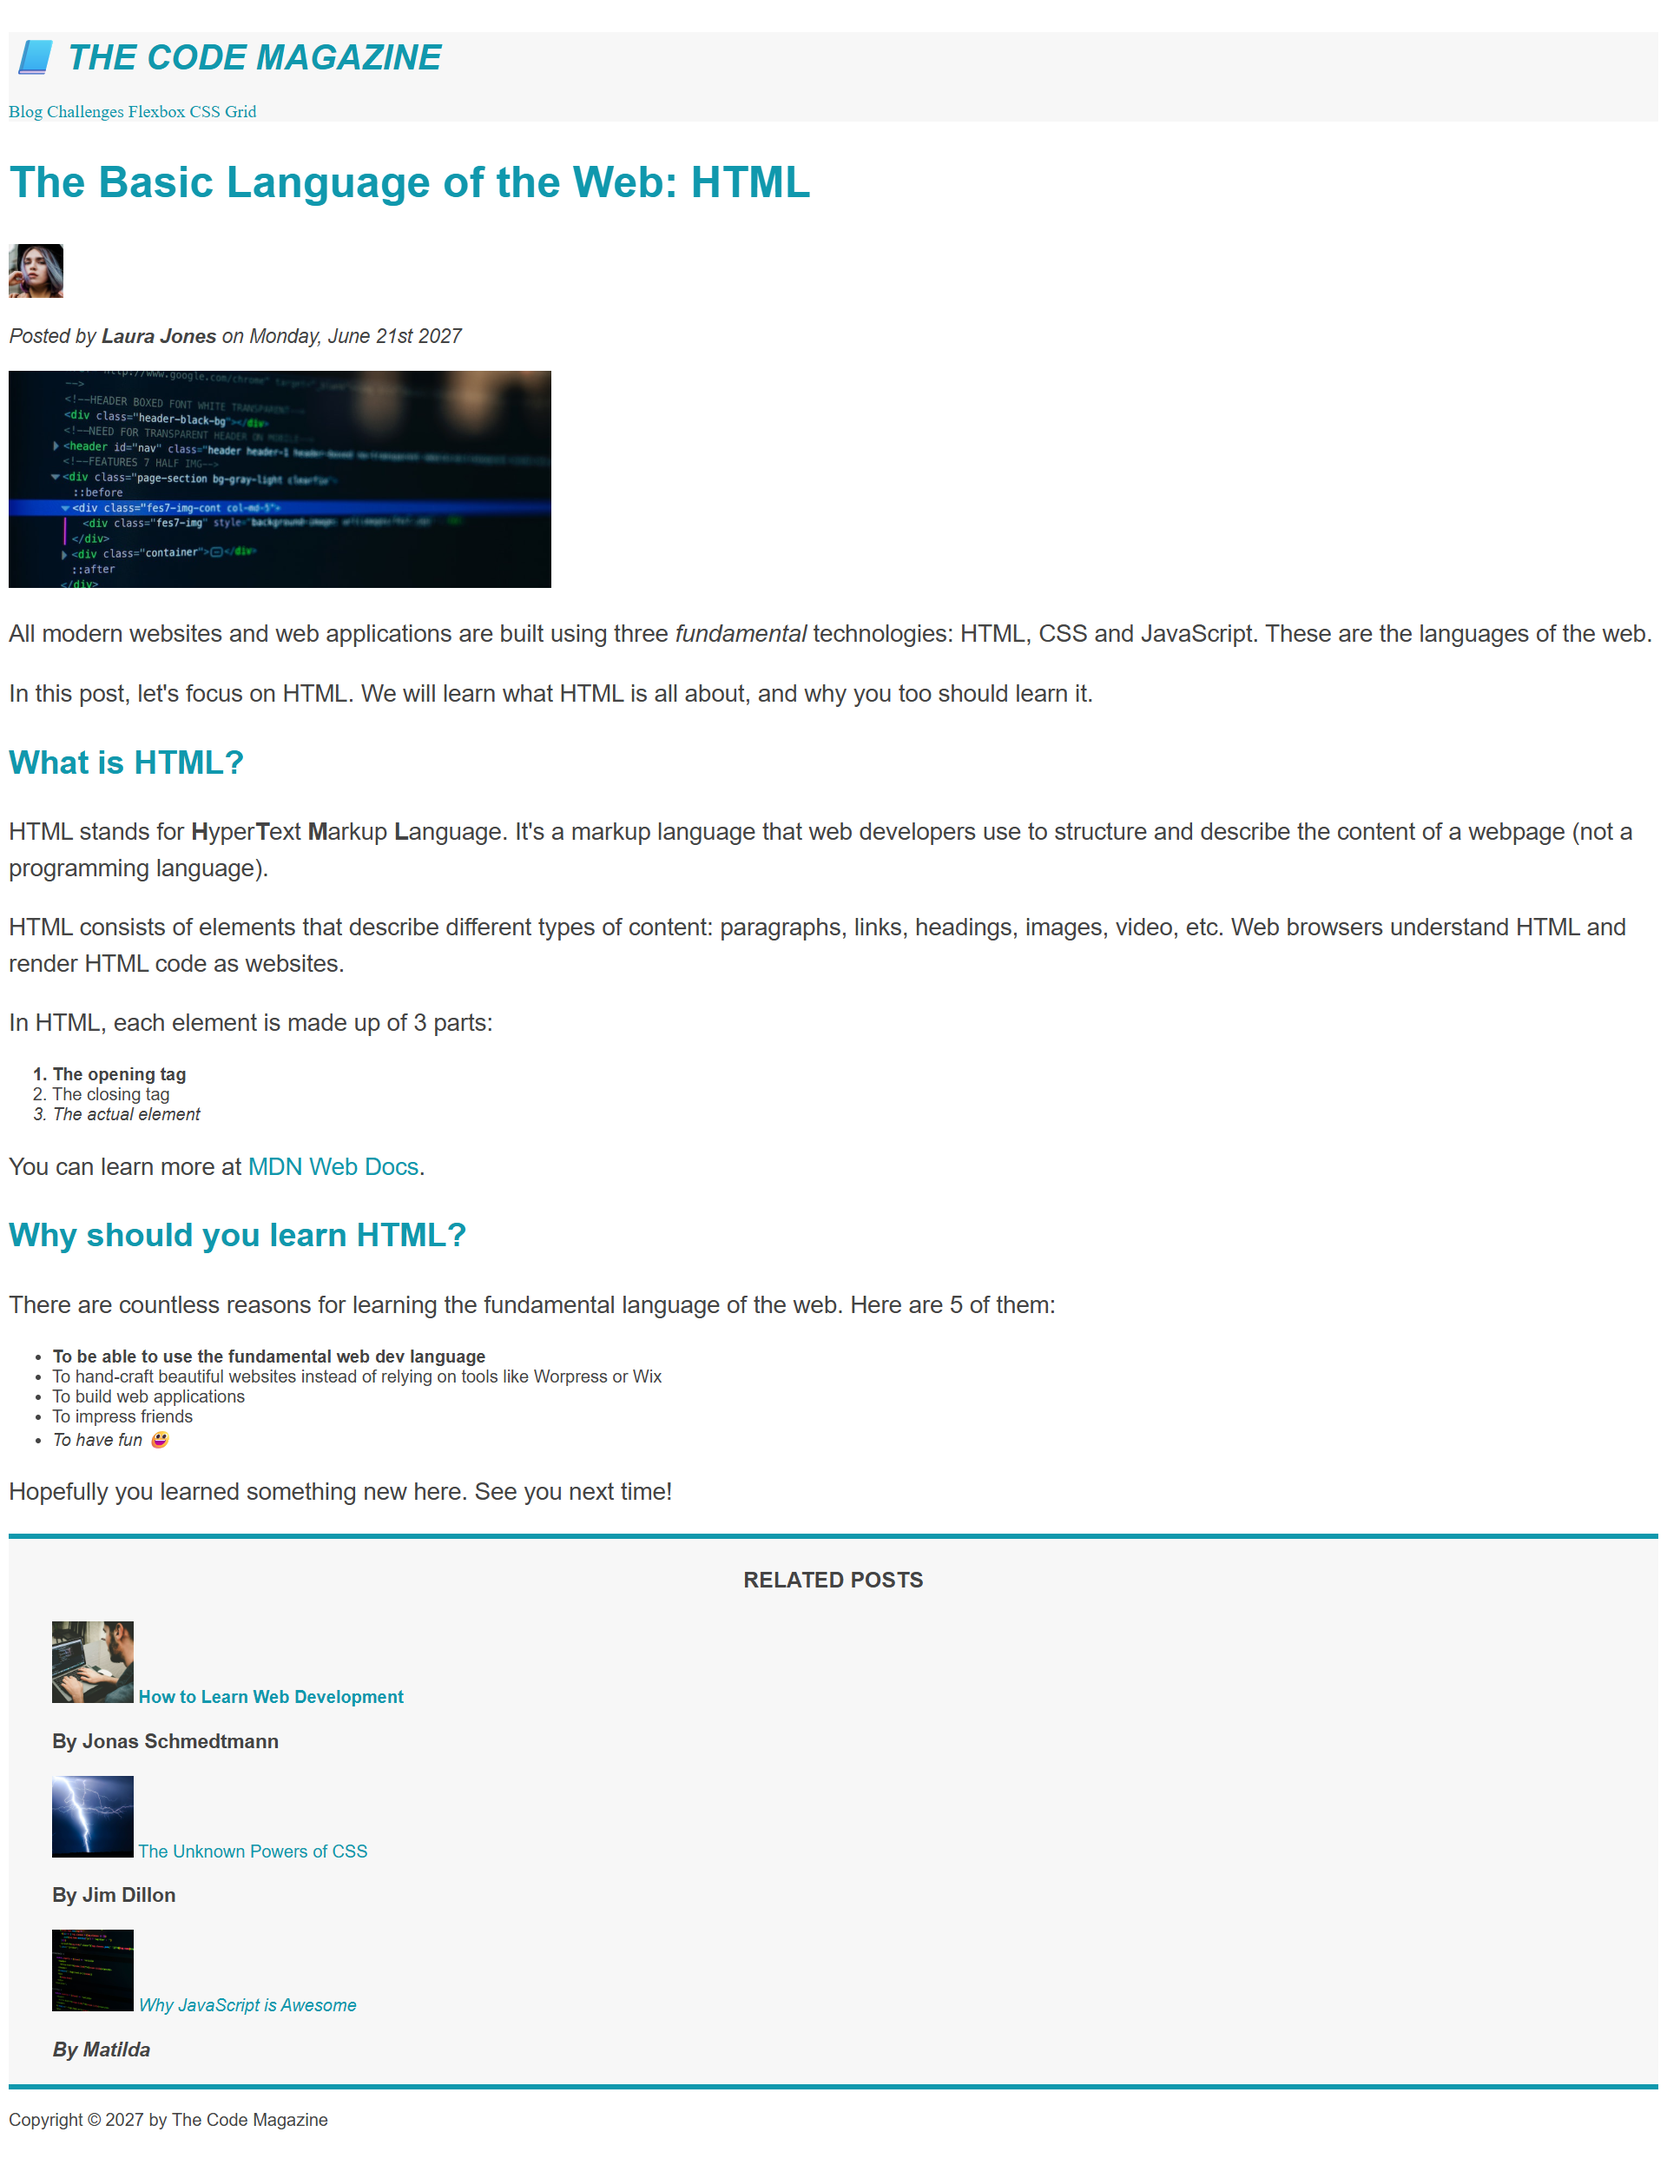
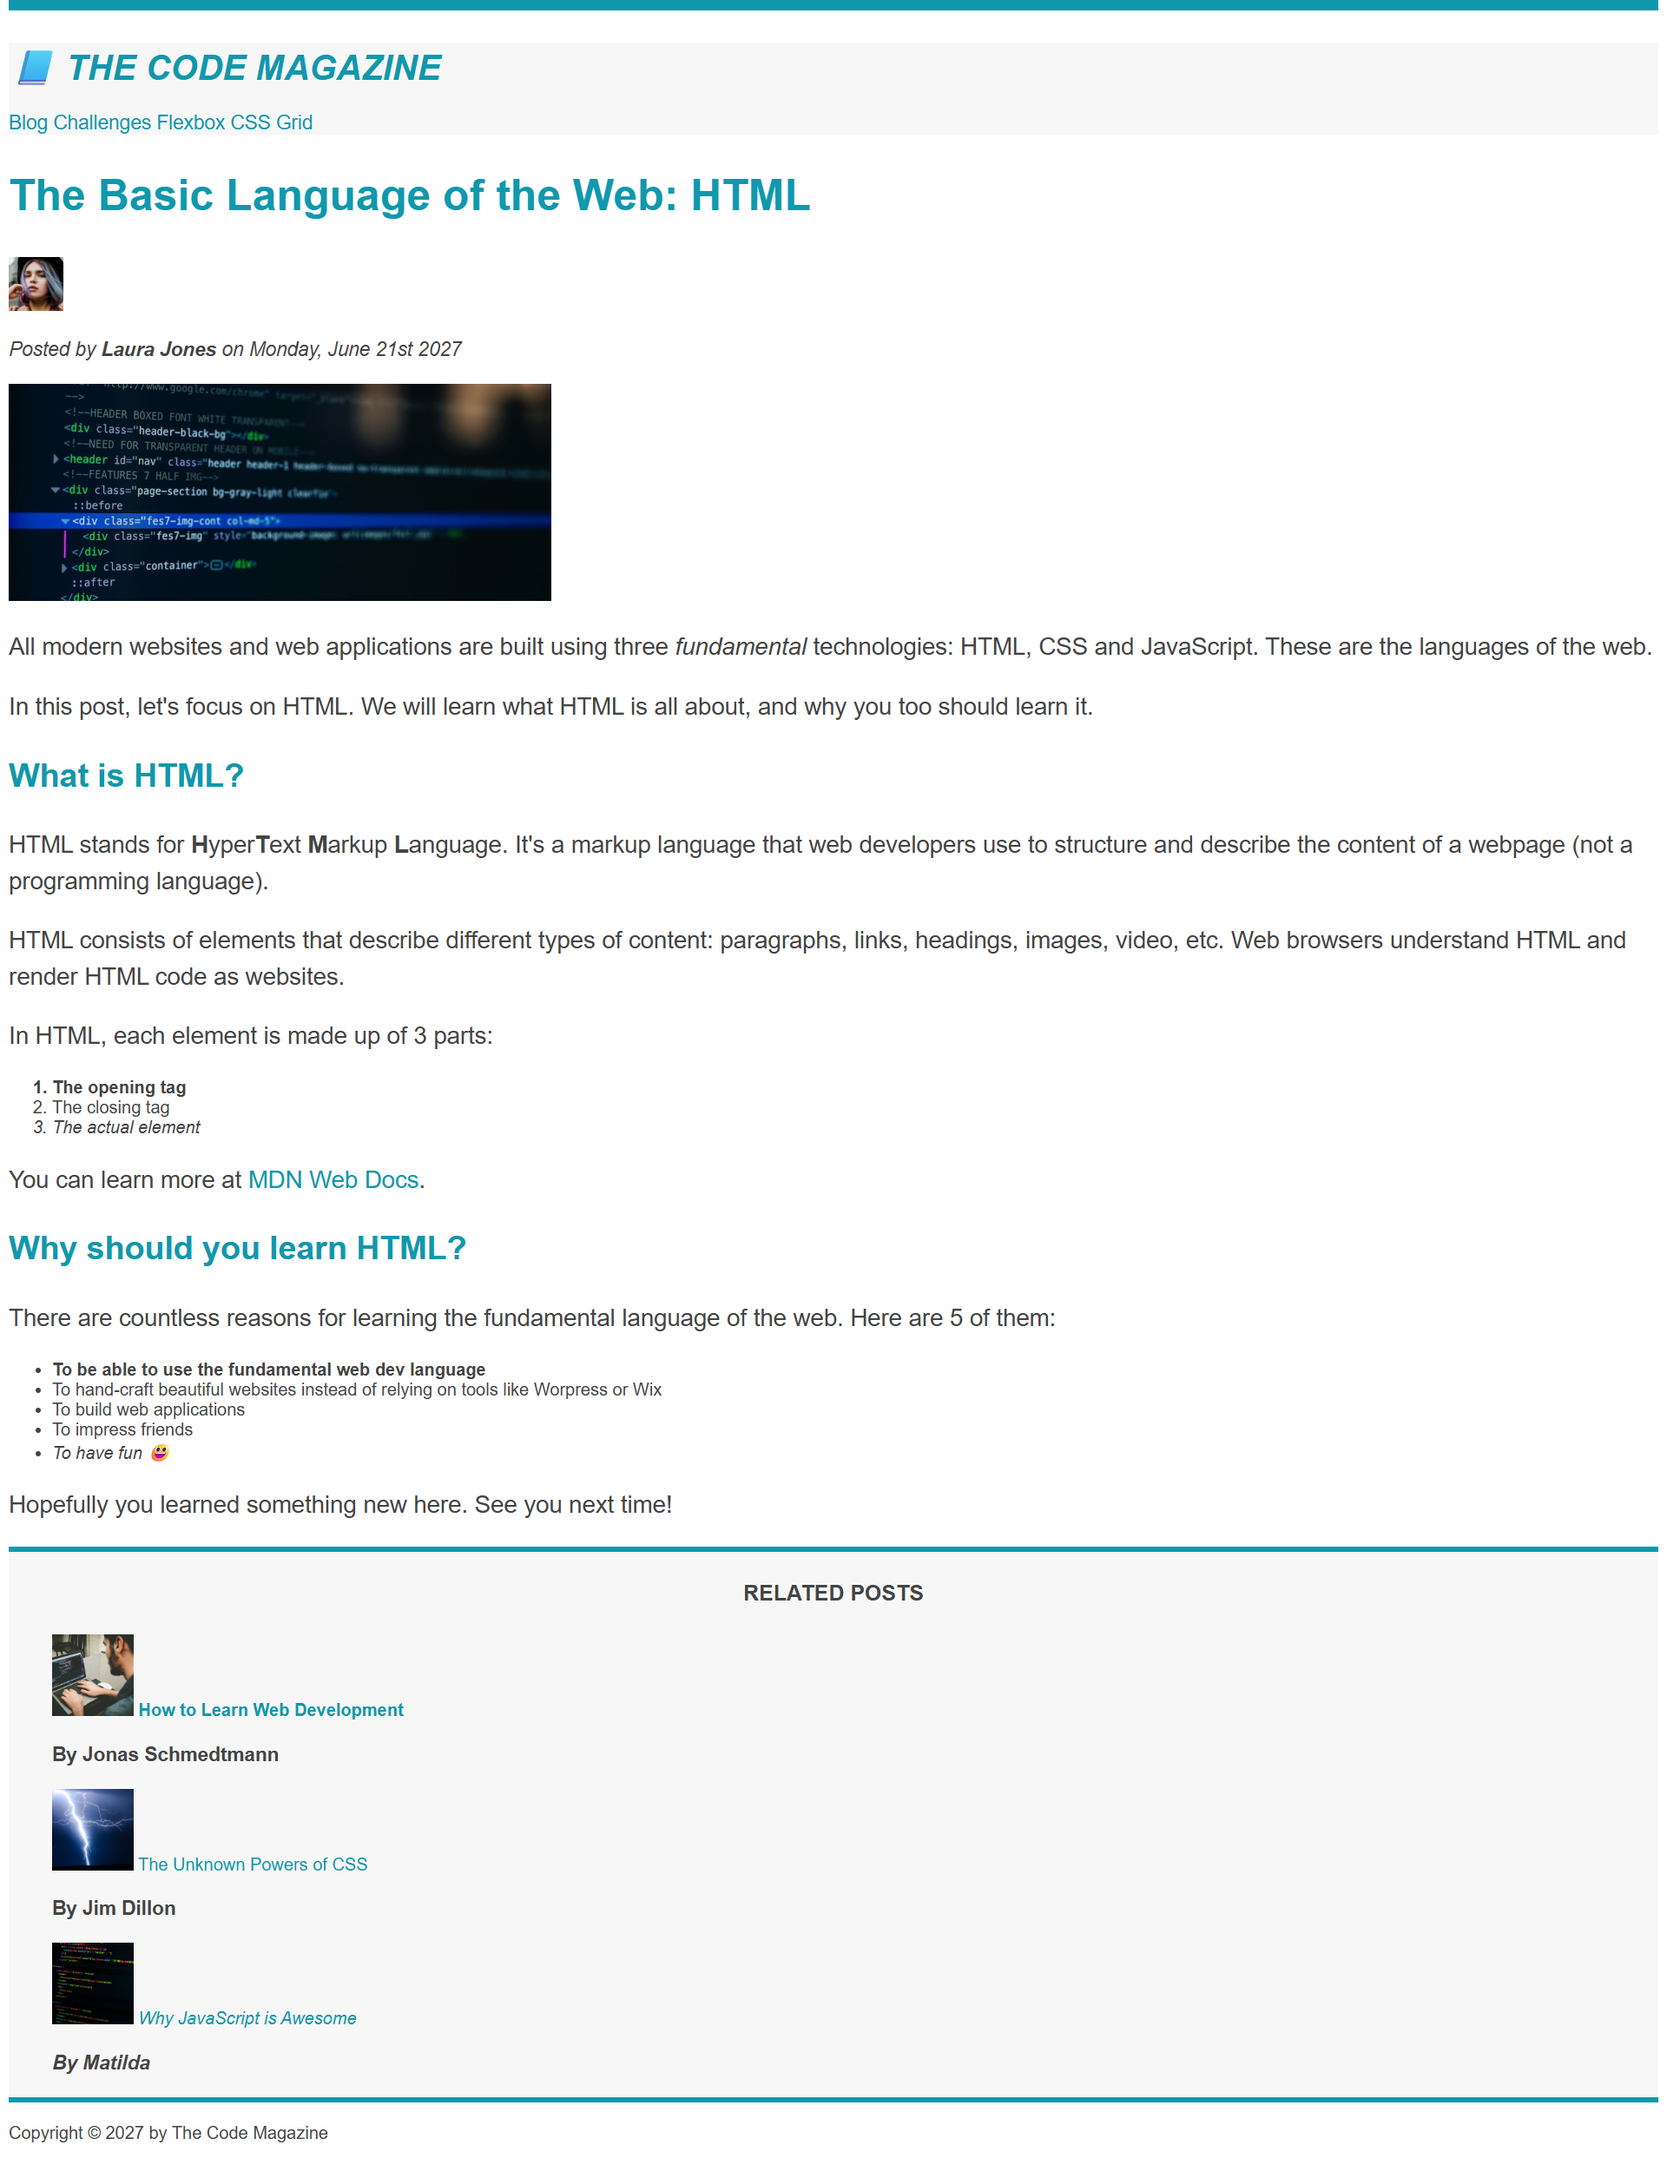
docs: update root README with CSS challenge, inheritance, and universal selector

diff --git a/product-page/style.css b/product-page/style.css
@@ -4,7 +4,59 @@
     box-sizing: border-box;
 } */
 
-h2{
-    color: blue;
-    font
+body {
+  border: 4px solid black;
+  font-family: sans-serif;
+}
+
+h2 {
+  text-align: center;
+  background-color: whitesmoke;
+  text-transform: uppercase;
+}
+
+.price {
+  font-size: 22px;
+}
+
+.shipping {
+  text-transform: uppercase;
+  font-size: 12px;
+  font-weight: bold;
+  color: #777;
+}
+
+a:link,
+a:visited {
+  color: black;
+}
+
+a:hover,
+a:active {
+  text-decoration: none;
+}
+
+h3 {
+  text-transform: uppercase;
+}
+
+ul li {
+  color: #444;
+  list-style-type: square;
+  line-height: 1.5;
+}
+
+.add-cart {
+  font-size: 14px;
+  text-transform: uppercase;
+  background-color: black;
+  color: white;
+  border: none;
+  cursor: pointer;
+}
+
+.add-cart:hover {
+  background-color: white;
+  color: black;
+  font-size: 14px;
 }

diff --git a/product-page/index.html b/product-page/index.html
@@ -4,6 +4,7 @@
     <meta charset="UTF-8" />
     <meta name="viewport" content="width=device-width, initial-scale=1.0" />
     <title><title>Converse Chuck Taylor All Star</title></title>
+    <link rel="stylesheet" href="style.css">
   </head>
   <body>
     <article>
@@ -16,9 +17,9 @@
         height="250"
       />
 
-      <p><strong>$65.00</strong></p>
+      <p class="price"><strong>$65.00</strong></p>
 
-      <p>Free shipping</p>
+      <p class="shipping">Free shipping</p>
 
       <p>
         Ready to dress up or down, these classic canvas Chunks are an everyday
@@ -35,7 +36,7 @@
         <li>Iconic Chunk Taylor ankle patch</li>
       </ul>
 
-      <button>Add to cart</button>
+      <button class="add-cart">Add to cart</button>
     </article>
   </body>
 </html>

diff --git a/code-magazine/index.html b/code-magazine/index.html
@@ -10,7 +10,13 @@
     <header class="main-header">
       <h1>📘 The Code Magazine</h1>
 
-      <nav><a href="blog.html">Blog Challenges Flexbox CSS Grid</a></nav>
+      <nav>
+        <!-- <p>This is the navigation</p> -->
+        <a href="blog.html">Blog</a>
+        <a href="#">Challenges</a>
+        <a href="#">Flexbox</a>
+        <a href="#">CSS Grid</a>
+      </nav>
 
     </header>
 

diff --git a/code-magazine/style.css b/code-magazine/style.css
@@ -1,11 +1,12 @@
-h1,
-h2,
-h3,
-h4,
-p,
-li {
-  font-family: sans-serif;
+/* * {
+  /* border-top: 10px solid #1098ad; 
+} */
+
+body {
   color: #444;
+  font-family: sans-serif;
+
+  border-top: 10px solid #1098ad;
 }
 
 h1,
@@ -130,3 +131,11 @@ a:active {
   font-style: italic;
 }
 /* LVHA */
+
+/* nav a:link{
+  font-size: 18px;
+} */
+
+nav {
+  font-size: 18px;
+}

diff --git a/product-page/README.md b/product-page/README.md
@@ -1,10 +1,10 @@
 # 👟 Product Page - Converse Chuck Taylor
 
-This is my second HTML project, built as part of my web development learning journey.
+This is my second HTML project, now fully styled with CSS! Built as part of my web development learning journey.
 
 ## Project Description
 
-A clean, semantic HTML product page for the Converse Chuck Taylor All Star Low Top sneakers. This project focuses on structuring a product display with images, pricing, descriptions, and product details.
+A clean, semantic HTML product page for the Converse Chuck Taylor All Star Low Top sneakers — now enhanced with custom CSS styling, interactive hover states, and polished UI details.
 
 ## Key Features
 
@@ -12,11 +12,19 @@ A clean, semantic HTML product page for the Converse Chuck Taylor All Star Low T
 - **Product Display**: Features product image with dimensions, pricing, and description
 - **External Linking**: Includes a "More information" link that opens in a new tab (`target="_blank"`)
 - **Product Details**: Unordered list highlighting key product features
-- **Call-to-Action**: "Add to cart" button for future interactivity
+- **CSS Styling**:
+  - Custom button with hover effect (black background → white background flip)
+  - `list-style: square` for product details
+  - `text-transform: uppercase` for headings
+  - Borders for structure and visual hierarchy
+  - `cursor: pointer` on interactive elements
+  - Link pseudo-classes (`:link`, `:visited`, `:hover`, `:active`)
+- **Call-to-Action**: "Add to cart" button with hover interactivity
 
 ## Technologies Used
 
 - HTML5
+- CSS3
 
 ## What I Learned
 
@@ -24,13 +32,21 @@ A clean, semantic HTML product page for the Converse Chuck Taylor All Star Low T
 - Using images with proper `alt` text and dimensions
 - Creating external links with `target="_blank"` for better user experience
 - Organizing product features using unordered lists
+- Styling buttons with hover effects (background and text color flip)
+- Using `list-style: square` for custom bullet points
+- Applying `text-transform: uppercase` to headings
+- Working with borders for visual structure
+- Using `cursor: pointer` for better UX
+- Styling link states with pseudo-classes (`:link`, `:visited`, `:hover`, `:active`)
+- Understanding CSS inheritance (body styles inherited by children, but can be overridden)
+- Using the universal selector (`*`) for global resets
 
-## What's Next
+## Project Status
 
-This project was built as an HTML-only exercise. As I continue learning, I may:
-- Add CSS styling
-- Make it responsive
-- Turn it into a full blog layout
+✅ HTML structure complete  
+✅ CSS styling added (layout, colors, typography, button, lists, borders, hover states)  
+⏳ Responsive design (coming soon)  
+⏳ JavaScript interactivity (future)
 
 ## Project Preview
 
@@ -38,4 +54,10 @@ This project was built as an HTML-only exercise. As I continue learning, I may:
 
 ## How to View
 
-Simply open `index.html` in your browser.
+To view this project on your computer:
+
+1. Download or clone this repository
+2. Navigate to the `product-page/` folder
+3. Double-click `index.html` — it will open in your browser
+
+No special software or commands needed — just double-click and go!

diff --git a/README.md b/README.md
@@ -13,13 +13,14 @@ Welcome to my coding log! This repository serves as a documentation of my journe
 
 Here are the projects I have built during my journey:
 
-- **[Code Magazine](code-magazine/)**: ✅ Completed - A semantic HTML structure project now styled with CSS (fonts, colors, typography, and link states).
-- **[Product Page](product-page/)**: ✅ Completed - A product page for Converse Chuck Taylor sneakers built with HTML structure, lists, images, and links.
+- **[Code Magazine](code-magazine/)**: ✅ Completed - A semantic HTML structure project now fully styled with CSS (fonts, colors, typography, link states, and body border).
+- **[Product Page](product-page/)**: ✅ Completed - A product page for Converse Chuck Taylor sneakers with HTML structure and CSS styling (button hover effects, list styling, borders, link states, and `cursor: pointer`).
 
 ## 📅 Progress Log
 
 | Date       | Topic/Module                 | Key Concepts Learned                                                                 |
 | :--------- | :--------------------------- | :----------------------------------------------------------------------------------- |
+| 2026-08-22 | CSS Challenge & Core Concepts | Styling product page with classes; `text-transform: uppercase`; `list-style: square`; borders; button hover effects (black → white background flip); `cursor: pointer`; link pseudo-classes (`:link`, `:visited`, `:hover`, `:active`); CSS inheritance (body styles inherited by children, overridden when needed); universal selector (`*`) for global resets |
 | 2026-07-05 | CSS Selectors, Colors & DevTools | Element, class, and ID selectors; combining selectors; colors (hex, rgb, named); pseudo-classes (`:link`, `:visited`, `:hover`, `:active`); styling hyperlinks; Chrome DevTools inspection |
 | 2026-07-03 | CSS Basics                   | Styling fonts, colors, text transforms, line heights, and CSS reset                 |
 | 2026-07-02 | Product Page                 | HTML product layout, image integration, lists, and anchor links                     |

diff --git a/code-magazine/README.md b/code-magazine/README.md
@@ -20,7 +20,7 @@ The Code Magazine is a clean, semantic HTML layout with CSS styling for improved
 - **Content Organization**: Implemented ordered and unordered lists, and proper heading hierarchy.
 - **External & Internal Linking**: Includes navigation between pages and secure external links using `target="_blank"`.
 - **Media**: Integrated images with descriptive `alt` tags.
-- **CSS Styling**: Added fonts, colors, text transforms, spacing, and pseudo-class-based link styling (`:link`, `:visited`, `:hover`, `:active`).
+- **CSS Styling**: Added fonts, colors, text transforms, spacing, pseudo-class-based link styling (`:link`, `:visited`, `:hover`, `:active`), and a top border on the body for visual structure.
 - **Chrome DevTools**: Used for inspecting and debugging CSS styles.
 
 ## Technologies Used
@@ -28,10 +28,19 @@ The Code Magazine is a clean, semantic HTML layout with CSS styling for improved
 - HTML5
 - CSS3
 
+## What I Learned
+
+- Structuring a magazine-style layout with semantic HTML
+- Using CSS for typography, colors, and spacing
+- Styling link states with pseudo-classes (`:link`, `:visited`, `:hover`, `:active`)
+- Applying borders to elements for visual hierarchy
+- Understanding CSS inheritance (body styles inherited by children, but can be overridden)
+- Using the universal selector (`*`) for global resets
+
 ## Project Status
 
 ✅ HTML structure complete  
-✅ CSS styling added (fonts, colors, typography, link states)  
+✅ CSS styling added (fonts, colors, typography, link states, body border)  
 ⏳ Responsive design (coming soon)  
 ⏳ JavaScript interactivity (future)
 
